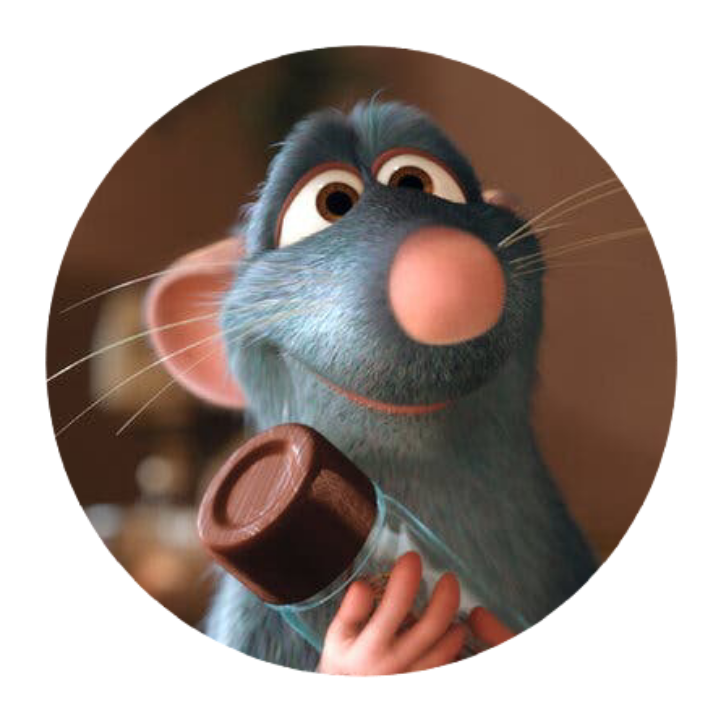
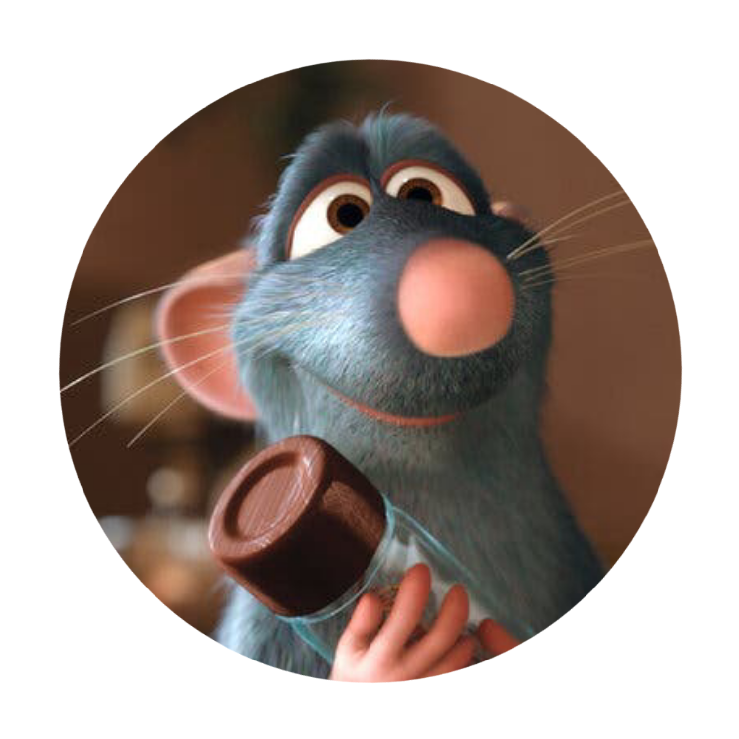
Edited the chefs photo,added fadein animation, also added the styes for buttons for future use

diff --git a/index.html b/index.html
@@ -9,27 +9,33 @@
     <link rel="preconnect" href="https://fonts.gstatic.com" />
     <link href="https://fonts.googleapis.com/css2?family=Imbue:wght@400;700&family=Tangerine:wght@400;700&display=swap" rel="stylesheet">
     <link href="https://fonts.googleapis.com/css2?family=Montserrat:wght@400;700&family=Tangerine:wght@400;700&display=swap" rel="stylesheet">
+    <link href="https://fonts.googleapis.com/css2?family=Fasthand&display=swap" rel="stylesheet">
     <link href="https://fonts.googleapis.com/css2?family=Agdasima&display=swap" rel="stylesheet">
 </head>
 <body>
     <div id="content" class="container">
         <!--<header>
             <h1>Ratatouille</h1>
+            <nav>
+                <button>Home</button>
+                <button>Menu</button>
+                <button>Contact</button>
+            </nav>
         </header>
         <main>
-            <div class="main">
+            <div id="main">
                 <div class="home">
                     <p>Best food in the galaxy</p>
                     <p>Made with passion since 1999</p>
-                    <img src="./images/chef.png" alt="Chef">
+                    <img src="./images/00xp-ratatouille-articleLarge.png" alt="Chef">
                     <p>Order online or visit us!</p>
                 </div>
             </div>
         </main>
         <footer>
             <p>Roy Joseph © 2023</p>
-        </footer> -->
-    </div>
+        </footer> 
+    </div>-->
     <script src="main.js"></script>
 </body>
 </html>

diff --git a/style.css b/style.css
@@ -38,7 +38,25 @@ header{
 header > h1{
     font-size: 12rem;
 }
-  
+/*
+header > nav > button{
+    background: transparent;
+    border: none;
+    color: white;
+    cursor: pointer;
+    margin-top: -1em;
+    padding: 1em;
+    font-size: 1.8em;
+    font-family: 'Fasthand', cursive;
+    transition: 0.4s;
+}
+header > nav > button:hover{
+    transform: translateY(-10%);
+}
+.btnActive{
+    border-bottom: 4px solid white;
+}
+ */ 
 main{
     margin: 2rem;
     padding: 0.5em;
@@ -49,9 +67,11 @@ main{
     border: 2px solid rgb(16, 16, 16);
 }
 
+.home{
+    animation: fadeIn 1.8s;
+}
 .home > img{
     width: 60%;
-    margin-bottom: -1em;
 }
 
 footer{
@@ -66,4 +86,16 @@ footer{
     html{
         font-size: 50%;
     }
+    .home > img{
+        width: 80%;
+    }
 }
+
+@keyframes fadeIn {
+    0%{
+         opacity: 0;
+    }
+    100%{ 
+        opacity: 1; 
+    }
+  }
